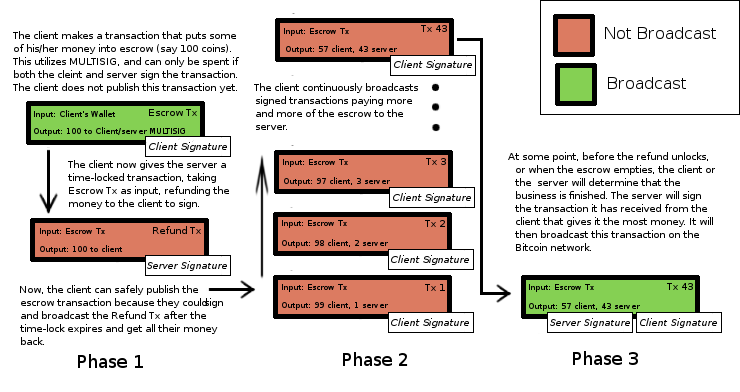
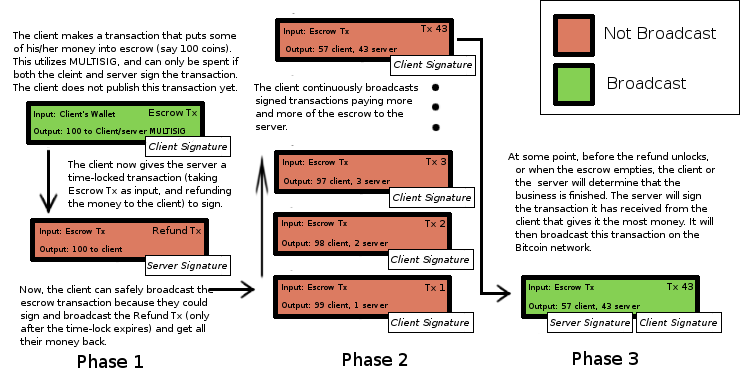
more edits

diff --git a/paper/design.tex b/paper/design.tex
@@ -1,11 +1,12 @@
 \section{Design}
 \label{sec:design}
 
+
 \begin{figure*}
   \centering
-  \includegraphics[width=0.95\textwidth]{microtransactions.png}
-  \caption{Diagram of micropayment protocol}
-  \label{fig:micropayment-protocol}
+  \includegraphics[width=1.05\textwidth]{proxydiagram.png}
+  \caption{Diagram of proxy rotation}
+  \label{fig:proxy-diagram}
 \end{figure*}
 
 In this section, we discuss the general design of the proxy rotation protocol, starting with the motivation for adding the Bitcoin micropayments.
@@ -13,6 +14,14 @@ In this section, we discuss the general design of the proxy rotation protocol, s
 \subsection{Financial Design and Motivation}
 
 Currently the available proxy market is made up of free proxies which are slow, with bad availability, and paid proxies which use per-month credit card payments. The lack of quality in free proxies can be a problem. It has been shown that the Tor relays have a lopsided distribution with more than expected residing in less stable IP prefixes \cite{vanbever2014anonymity}. Using credit cards to pay for proxies also has its own problems and reduces the anonymity of a user, as each proxy a user shares their identifying information with could be infiltrated by an attacker or seized by an adversary with state powers. Using month to month proxies also limits the pool size of proxies due to the practical financial limitations on how many proxies a single person could afford to be subscribed to in a single month. 
+
+
+\begin{figure*}
+  \centering
+  \includegraphics[width=0.95\textwidth]{microtransactions.png}
+  \caption{Diagram of micropayment protocol}
+  \label{fig:micropayment-protocol}
+\end{figure*}
 
 We would like to employ a third economic strategy, involving the Bitcoin micropayment channel, to bring many parties to the market, on both the client and proxy side. Using Bitcoin for payment to proxies provides significant benefits over free proxies or pay by month proxies. As opposed to free proxies, using Bitcoin micropayments could make proxies much more available. Once servers are collecting a small fee, it is in their interest to maintain a certain quality of service. Specifically, the Bitcoin fees could be configured in such a way as to charge per byte, or per request. Thus, a server would make more money if it was quick (an incentive to be fast), and would only be paid if it was functioning (an incentive to be available). When compared to credit card subscriptions, the Bitcoin payment method also has advantages. Bitcoin is a pseudonymous payment system, which allows payment to a proxy without revealing the identity of the client. 
 Because of the nature of the micropayments, the relationship between a client and a server is short. This is particularly desirable for the client if the client is trying to evade oppressive censorship and the proxy constantly runs the risk of being shut down at some point before the payment period ends (in which case the client would lose out on a service they have already paid for).
@@ -23,15 +32,15 @@ There are some additional details that must be addressed with proxy rotating as 
 
 \subsection{Mechanics of Micropayment Channels}
 
-The micropayment protocol visualized in Figure \ref{fig:micropayment-protocol} consists of a combination of on chain and off chain transactions. Micropayments go through an initialization phase in which the client creates (but does not broadcast) an escrow transaction with the maximum amount of spendable money in the channel, requiring both the client's and the server's signatures to unlock. Next, the client creates a refund a refund transaction which recovers all of the money in escrow and is time locked (it will only be valid after a certain number of blocks have been mined, which can be approximated with a time as each block takes an average of 10 minutes to mine). The server then signs the refund transaction.
+The micropayment protocol visualized in Figure \ref{fig:micropayment-protocol} consists of a combination of on chain (broadcast) and off chain (not broadcast) transactions. Micropayments go through an initialization phase in which the client creates (but does not broadcast) an escrow transaction with the maximum amount of spendable money in the channel, requiring both the client's and the server's signatures to unlock. Next, the client creates a refund transaction which recovers all of the money in escrow and is time locked (specifically meaning it can only be broadcast after a certain number of blocks has been mined, but this translates to an approximate time, as each block takes an average of 10 minutes to mine). The server then signs the refund transaction.
 
-After receiving the signed refund transaction, the client can then safely broadcast the previously created escrow transaction on the Bitcoin network. This marks the beginning of the payment phase. The client will sign transactions paying incrementally more money from the escrow to the server, and returning less money to themselves. These transactions are all double-spends of the escrow transaction so only one can be validly placed on the block chain.
+After receiving the signed refund transaction, the client can then safely broadcast the previously created escrow transaction on the Bitcoin network. This marks the beginning of the payment phase. The client will now sign transactions paying incrementally more money from the escrow to the server, and returning less money to themselves. These transactions are all double-spends of the escrow transaction so only one can be validly placed on the block chain.
 
 At some point the business between the client and the server comes to an end, bringing about the start of the final, resolution, phase. The most typical ending of business involves the client telling the server that they are done. At this point, the server will sign the payment provided by the client which gives the server the largest amount of money and broadcast it to the Bitcoin network.
 
 \subsection{Advantages of the Micropayment Structure}
 
-There are a few major advantages to using Bitcoin micropayments. First, the micropayments are low risk for both the client and the server. In the initialization phase, the client does not broadcast the escrow transaction until they have a signed refund transaction from the server. This presents the client with no risk because if the server doesn't behave or fails, the client can wait for the lock time to expire and recover all of their coins from escrow. Also, the server has no reason to not sign the refund transaction because it only spends funds that already belong to the client.
+There are a few major advantages to using Bitcoin micropayments. First, the micropayments are low risk for both the client and the server. In the initialization phase, the client does not broadcast the escrow transaction until they have a signed refund transaction from the server. This presents the client with no risk because if the server doesn't behave, or fails, the client can wait for the lock time to expire and recover all of their coins from escrow. Also, the server has no reason to not sign the refund transaction because it only spends funds that already belong to the client.
 
 During the payment phase, neither the server nor the client are at much risk. If the server stops providing service, the client will stop sending the new transactions with increased payment. Similarly, if the client stops sending new transactions, the server can stop providing its service. At the worst, the server or the client can only be cheated out of either one unit of service (e.g. megabyte of bandwidth), or one unit of payment.
 
@@ -55,12 +64,4 @@ The second method we employed is the Bitcoin block chain itself. The Bitcoin blo
 The advantages of using a tracker based system is that the protocol is much simpler and doesn't require spending Bitcoins to advertise. An announcement to a BitTorrent tracker takes time on the order of seconds, whereas it takes an average of 10 minutes for a Bitcoin block to be mined. This causes a larger delay for proxies who are trying to bootstrap themselves. Thus, using trackers require less time and money for a proxy to get bootstrap. Another advantage of trackers is that there can be many trackers, as any existing tracker can now become a means of proxy discovery, or people could even run their own trackers on a smaller scale. Censors would have a harder time finding and eliminating all proxies or trackers.
 
 On the other hand, just as it may be difficult for censors to find trackers, it may be hard for individuals to find trackers. The Bitcoin block chain provides an eventually consistent but decentralized means of storing and viewing information, meaning information on the block chain is hard to block but easy to find. To block the block chain discovery it would likely be necessary to block the Bitcoin protocol, which could be circumvented with format transforming encryption. Another option would be for censors to parse the announce messages on the block chain themselves, and censor all the addresses they find, but this could be abused by advertising arbitrary services, which would essentially force the censor to use a white-list.
-
-
-\begin{figure*}
-  \centering
-  \includegraphics[width=1.05\textwidth]{proxydiagram.png}
-  \caption{Diagram of proxy rotation}
-  \label{fig:proxy-diagram}
-\end{figure*}
 
